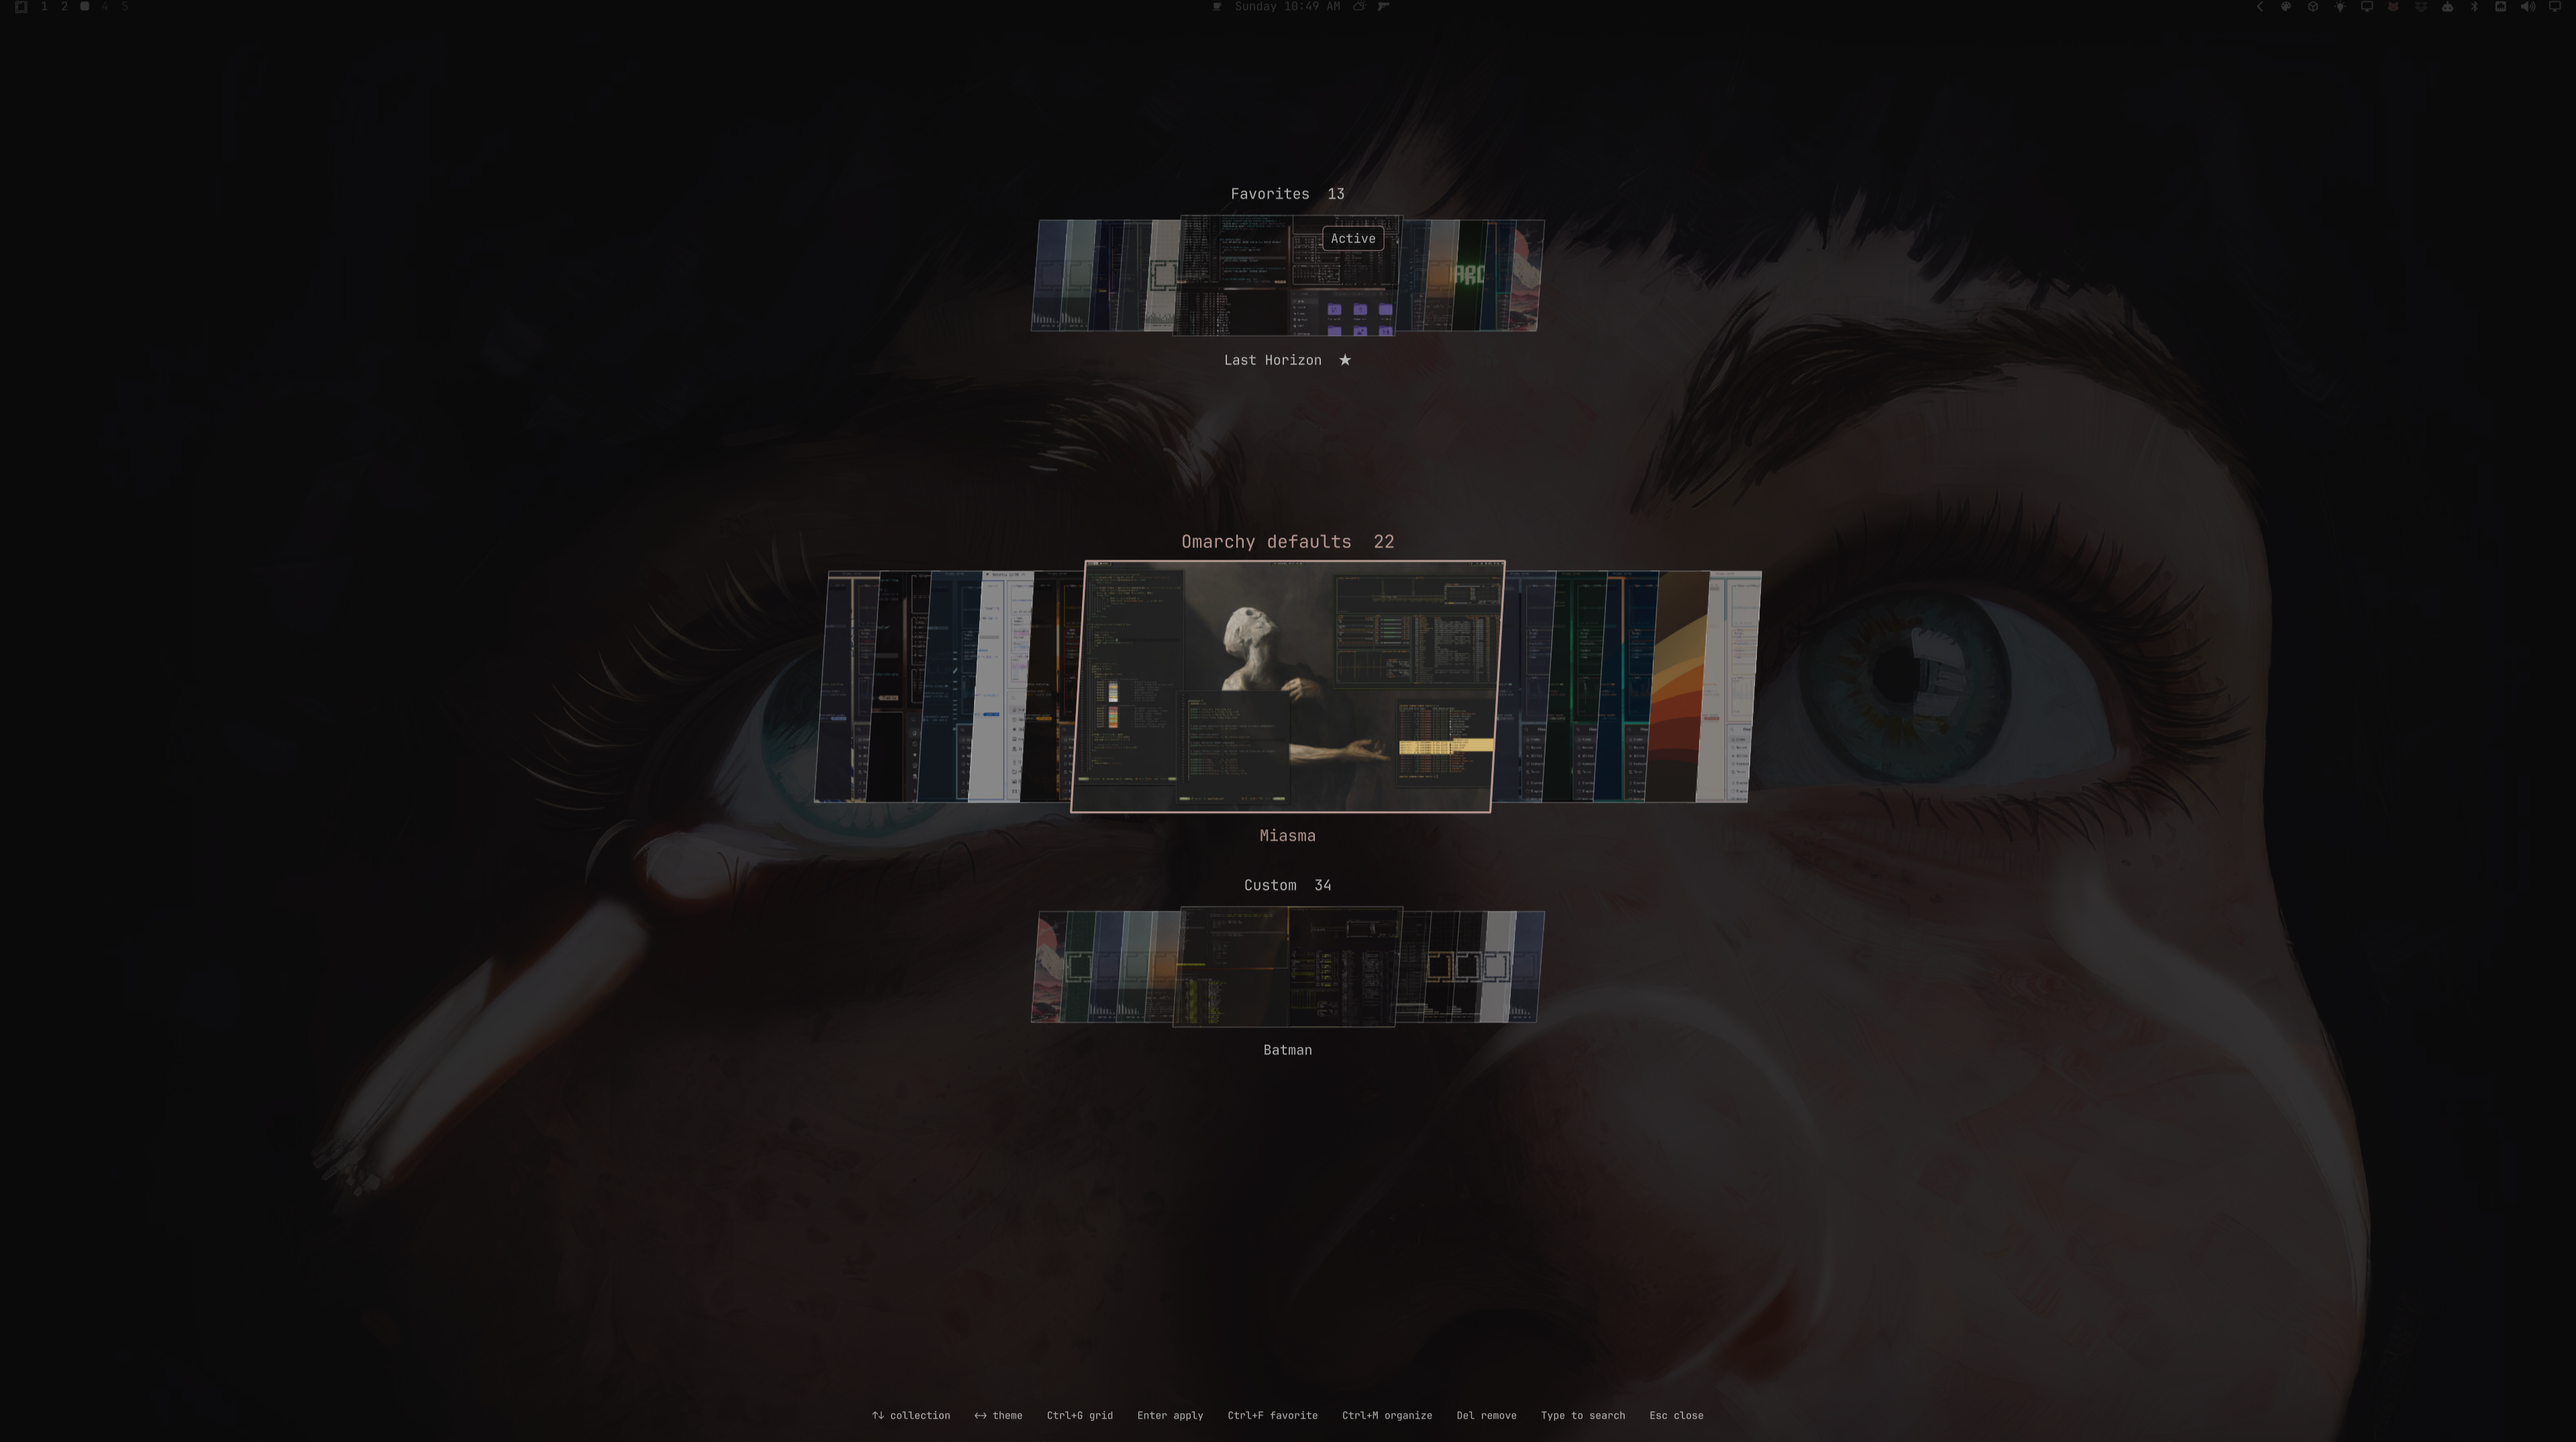
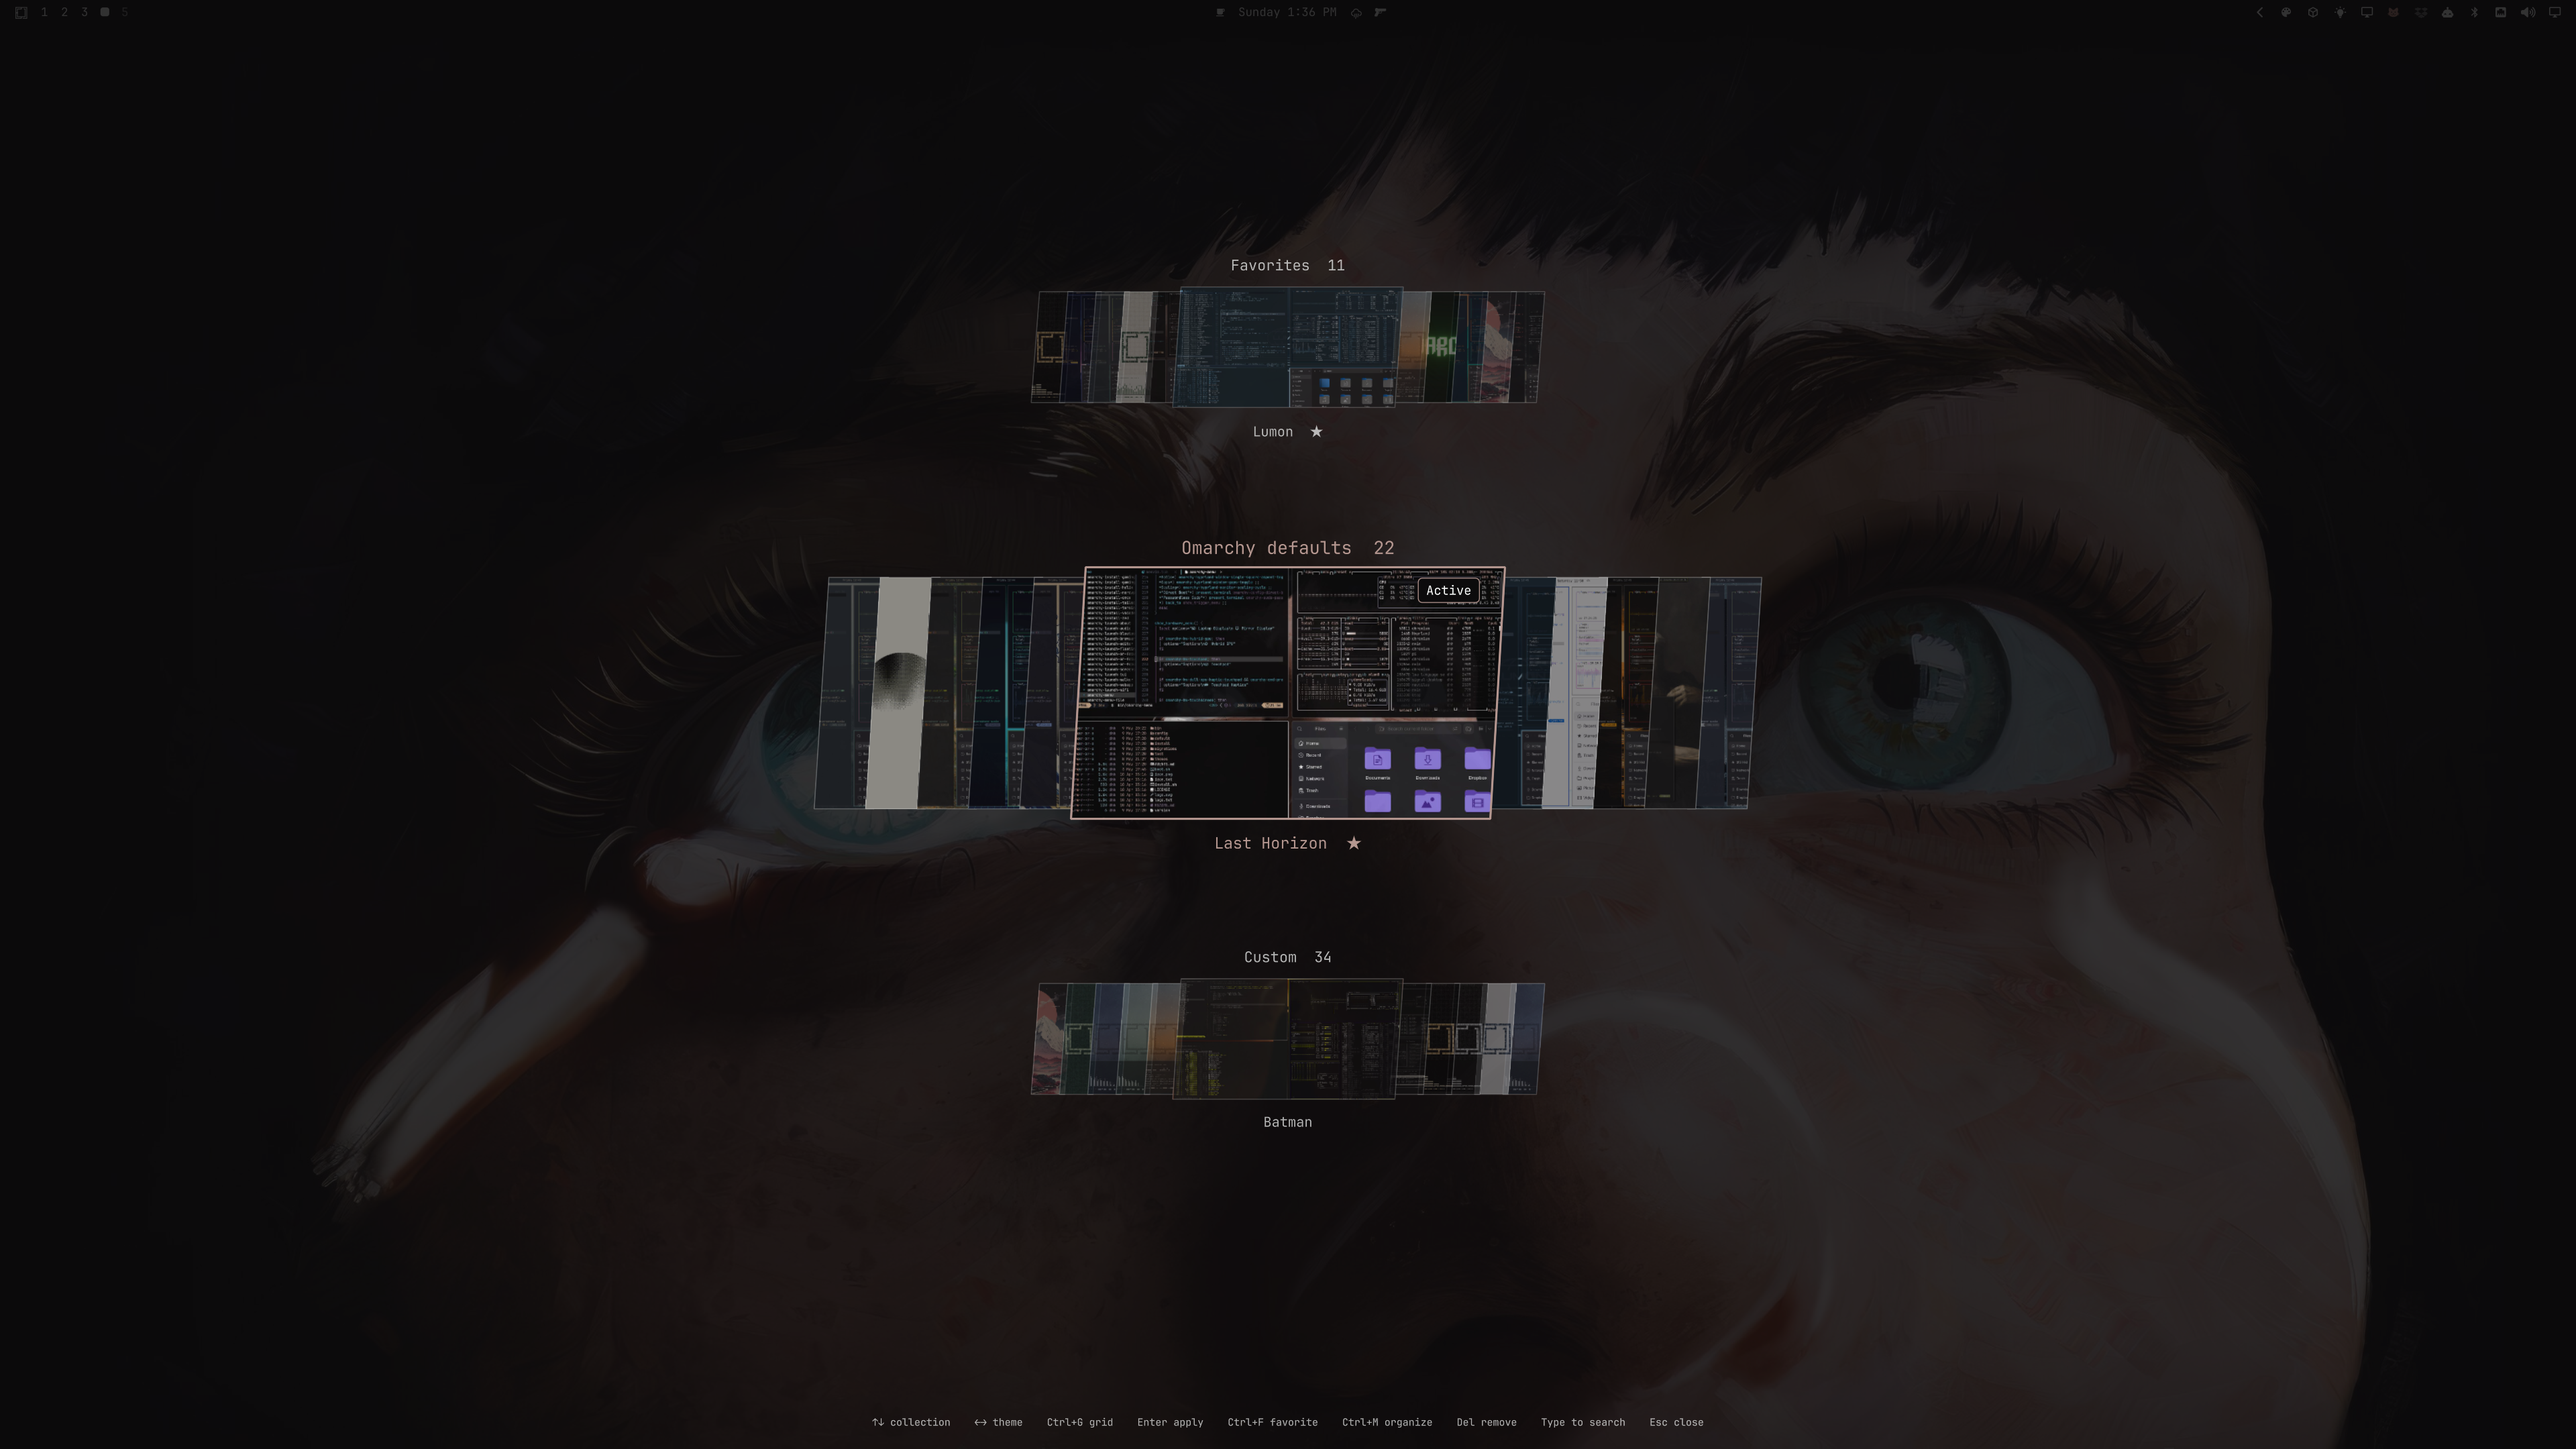
Balance carousel row spacing and refresh preview in v1.0.3

Changed region(s): [[0.3125, 0.3738, 0.6875, 0.5918], [0.375, 0.1246, 0.625, 0.2803], [0.375, 0.623, 0.625, 0.7787]]

diff --git a/ThemeCollections.qml b/ThemeCollections.qml
@@ -524,9 +524,9 @@ FocusScope {
                 Behavior on sliceWidth { NumberAnimation { duration: 180; easing.type: Easing.OutCubic } }
                 width: stage.width
                 height: stage.rowPitch
-                // Fixed slots: focusing a collection never reorders its neighbors.
+                // Center content in each fixed slot so expansion is balanced above and below.
                 // Scroll only when navigating beyond the three visible rows.
-                y: 40 + (index - root.firstVisibleRow) * stage.rowPitch
+                y: 40 + (index - root.firstVisibleRow) * stage.rowPitch + (240 - previewHeight) / 2
                 visible: index >= root.firstVisibleRow && index < root.firstVisibleRow + 3 && root.ready
                 opacity: focused ? 1 : 0.7
                 z: focused ? 2 : 1
